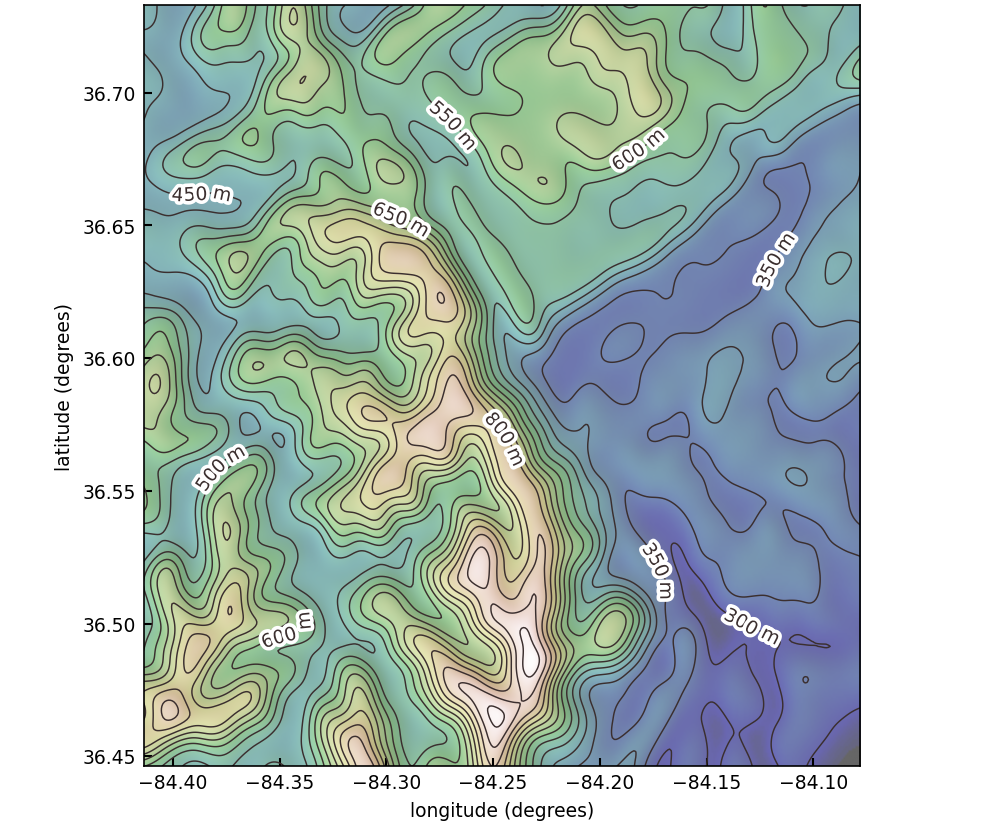
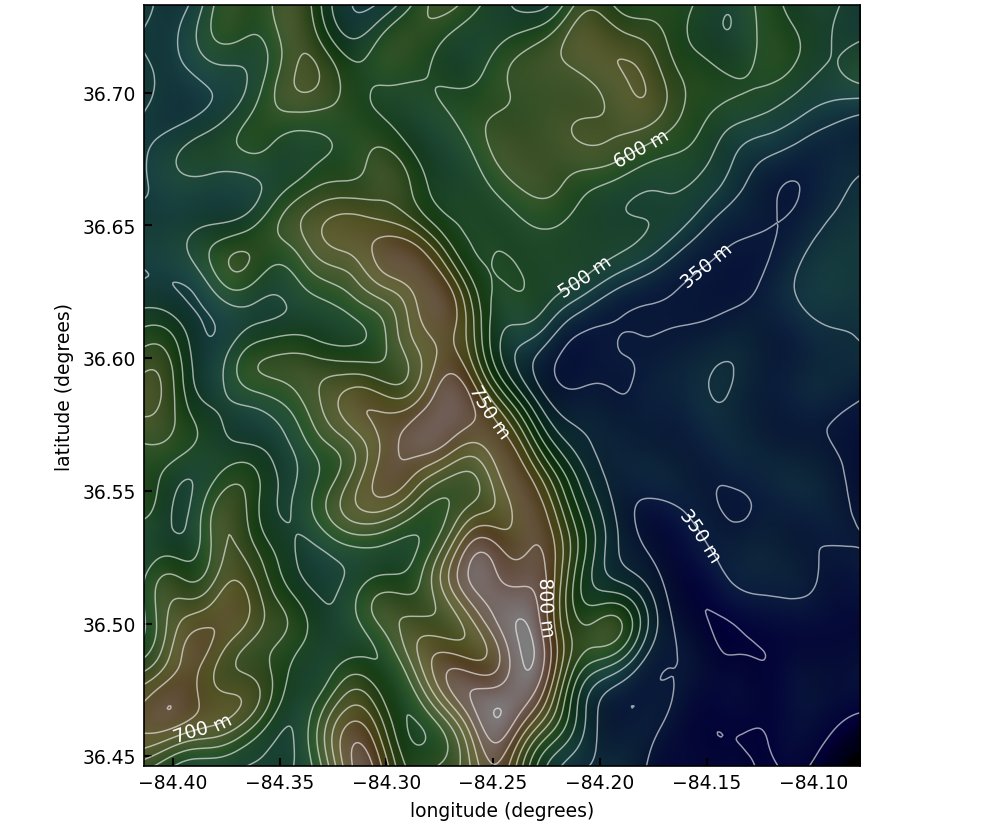
Use white labels on a darkened, smoother map and place each on its straightest stretch

diff --git a/examples/example_20_topographic_map.py b/examples/example_20_topographic_map.py
@@ -2,20 +2,22 @@
 
 Elevation from matplotlib's ``jacksboro_fault_dem.npz`` sample data, a digital
 elevation model near the Jacksboro fault in Tennessee, smoothed by a Gaussian
-about six cells wide so the contours are smooth enough to label, and shaded by
-a light from the northwest. Contours run every 50 m. ``ax.contour`` sets the
-direction of each contour path, and many run from right to left on screen, so
-every label is passed ``upright=True``. Each label sits where its contour has
-the most room, a contour with no stretch straight and open enough for a label
-has none, and a label too close to one already placed is left out. Each label
-has a thin white halo, not a casing, so its contour runs into it from both
-sides.
+about ten cells wide so the contours are smooth enough to label, and shaded by
+a light from the northwest and darkened. Contours run every 50 m.
+``ax.contour`` sets the direction of each contour path, and many run from right
+to left on screen, so every label is passed ``upright=True``.
+
+Each label sits on the straightest stretch of its contour that is clear of the
+other contours and over shading dark enough for white text. A contour with no
+such stretch has no label, and a label too close to one already placed is left
+out. The map is dark and the labels are white, with no casing or halo, so each
+label sits on its own contour line, which runs through the text. White text has
+a contrast of at least 4.5:1 against the shading under it.
 """
 from __future__ import annotations
 
 import os
 
-import matplotlib.patheffects as patheffects
 import matplotlib.pyplot as plt
 import numpy as np
 from matplotlib.colors import LightSource
@@ -24,31 +26,33 @@ from curved_text import curved_text
 from _style import data_axes, figure, sample_data, save
 
 # The standard deviation, in cells, of the Gaussian that smooths the terrain.
-SMOOTHING_CELLS = 6
+SMOOTHING_CELLS = 10
 CONTOUR_INTERVAL_M = 50
 # The shortest contour, in points, that is labeled: shorter ones are closed
 # loops around a summit or a pit, or fragments at the edge.
 MIN_POINTS = 250
 # Where along a contour a label may sit, as fractions of its length.
-CANDIDATE_POS = np.linspace(0.15, 0.85, 29)
-# The least distance, in degrees, from a label to the nearest other contour: a
-# little more than half the height of its casing, so the casing covers no
-# neighboring contour.
-MIN_ROOM = 0.0025
+CANDIDATE_POS = np.linspace(0.15, 0.85, 71)
+# The least distance, in degrees, from a label to the nearest other contour, so
+# a neighboring line does not run through the text.
+MIN_ROOM = 0.0015
 # The least distance, in degrees, between two labels.
-MIN_LABEL_SEPARATION = 0.045
-# A label is about this long, in degrees, and a contour that turns by more than
-# MAX_TURN_DEGREES in total across that length, measured at TURN_SAMPLES points,
-# is too curved for its label.
-LABEL_LENGTH = 0.025
-MAX_TURN_DEGREES = 30.0
-TURN_SAMPLES = 8
-# How far the hillshading is lightened toward white, so the contours stand out.
-SHADE_LIGHTENING = 0.4
-INK = "#3b2f2f"   # near-black brown, 12.9:1 against white
-# A thin white outline on each glyph, so the contour runs into the label from
-# both sides and the reader sees which line it names.
-HALO = [patheffects.withStroke(linewidth=3.5, foreground="white")]
+MIN_LABEL_SEPARATION = 0.04
+# A label is about 0.022 degrees long. The stretch of contour that must be
+# straight is longer, so a bend just past the label's end does not crush its
+# last letter. A contour that turns by more than MAX_TURN_DEGREES in total
+# across that stretch, measured at TURN_SAMPLES points, is too curved for its
+# label.
+LABEL_LENGTH = 0.032
+MAX_TURN_DEGREES = 22.0
+TURN_SAMPLES = 10
+# The factor that darkens the hillshading, so white labels can be read on it.
+SHADE_DARKENING = 0.5
+# The labels and the contour lines are white. White text is at least 4.5:1
+# against a background whose relative luminance is at most this value, the
+# WCAG 2 minimum for text, so a label is placed only where the shading under it
+# is that dark.
+MAX_BACKGROUND_LUMINANCE = 0.18
 
 
 def _gaussian_blur(grid, sigma):
@@ -74,6 +78,13 @@ def _point_at(path, pos):
                      for i in range(2)])
 
 
+def _luminance(rgb):
+    """The WCAG 2 relative luminance of each color in the (n, 3) array
+    ``rgb``."""
+    linear = np.where(rgb <= 0.04045, rgb / 12.92, ((rgb + 0.055) / 1.055) ** 2.4)
+    return linear @ np.array([0.2126, 0.7152, 0.0722])
+
+
 def _turn_degrees(path, pos):
     """The total turning of ``path``, in degrees, along a label's length
     centered at ``pos``, summed over short steps so a hairpin inside the
@@ -87,20 +98,24 @@ def _turn_degrees(path, pos):
     return float(np.abs(np.degrees(turns)).sum())
 
 
-def _roomiest_pos(path, others):
-    """The candidate ``pos`` at which ``path`` is farthest from every other
-    contour, among those where it is straight enough for a label and clear of
-    its neighbors, and that distance. Where contours crowd, as on a steep slope,
-    a label would cover them. ``None`` where no candidate qualifies."""
-    best = (None, -1.0)
+def _straightest_pos(path, others, dark_enough):
+    """The candidate ``pos`` at which ``path`` is straightest, among those where
+    it is straight enough for a label, clear of its neighbors, and over shading
+    dark enough for white text, and the distance from there to the nearest other
+    contour. The label then lies on the flattest stretch the contour offers,
+    where text follows it with the least bend. ``None`` where no candidate
+    qualifies."""
+    best = (None, None, np.inf)
     for pos in CANDIDATE_POS:
-        if _turn_degrees(path, pos) > MAX_TURN_DEGREES:
+        turn = _turn_degrees(path, pos)
+        if turn > MAX_TURN_DEGREES or turn >= best[2]:
             continue
-        point = _point_at(path, pos)
-        room = float(np.min(np.hypot(*(others - point).T)))
-        if room > best[1] and room >= MIN_ROOM:
-            best = (float(pos), room)
-    return best
+        if not dark_enough(path, pos):
+            continue
+        room = float(np.min(np.hypot(*(others - _point_at(path, pos)).T)))
+        if room >= MIN_ROOM:
+            best = (float(pos), room, turn)
+    return best[:2]
 
 
 def make(images_dir):
@@ -129,7 +144,22 @@ def make(images_dir):
     shade = LightSource(azdeg=315, altdeg=40).shade(
         smoothed, cmap=plt.cm.gist_earth, blend_mode="soft", vert_exag=2.0,
         dx=cell_m[0], dy=cell_m[1], fraction=0.9)
-    shade[..., :3] = (1 - SHADE_LIGHTENING) * shade[..., :3] + SHADE_LIGHTENING
+    shade[..., :3] *= SHADE_DARKENING
+    luminance = _luminance(shade[..., :3].reshape(-1, 3)).reshape(
+        shade.shape[:2])
+
+    def dark_enough(path, pos):
+        """Whether the shading under a label centered at ``pos`` on ``path``
+        is dark enough everywhere along the label for white text."""
+        length = np.hypot(*np.diff(path, axis=0).T).sum()
+        half = LABEL_LENGTH / 2 / length
+        points = np.array([_point_at(path, f) for f in
+                           np.linspace(pos - half, pos + half, TURN_SAMPLES)])
+        columns = np.round((points[:, 0] - west) / (east - west)
+                           * (luminance.shape[1] - 1)).astype(int)
+        rows = np.round((points[:, 1] - south) / (north - south)
+                        * (luminance.shape[0] - 1)).astype(int)
+        return bool(luminance[rows, columns].max() <= MAX_BACKGROUND_LUMINANCE)
 
     fig = figure(17, 14, font_size=9)
     ax = data_axes(fig.subplots())
@@ -138,7 +168,7 @@ def make(images_dir):
     levels = np.arange(CONTOUR_INTERVAL_M * np.ceil(smoothed.min() / 50),
                        smoothed.max(), CONTOUR_INTERVAL_M)
     contours = ax.contour(longitude, latitude, smoothed, levels=levels,
-                          colors=INK, linewidths=0.7)
+                          colors="white", linewidths=0.7, alpha=0.6)
 
     paths = [(level, seg) for level, segs in zip(contours.levels,
                                                  contours.allsegs)
@@ -146,7 +176,7 @@ def make(images_dir):
     candidates = []
     for index, (level, seg) in enumerate(paths):
         others = np.vstack([s for i, (_, s) in enumerate(paths) if i != index])
-        pos, room = _roomiest_pos(seg, others)
+        pos, room = _straightest_pos(seg, others, dark_enough)
         if pos is not None:
             candidates.append((room, level, seg, pos))
     placed = []
@@ -157,7 +187,7 @@ def make(images_dir):
             continue
         placed.append(point)
         curved_text(ax, seg[:, 0], seg[:, 1], f"{level:.0f} m", pos=pos,
-                    upright=True, fontsize=9, color=INK, path_effects=HALO)
+                    upright=True, fontsize=9, color="white")
     ax.set_xlabel("longitude (degrees)")
     ax.set_ylabel("latitude (degrees)")
 

diff --git a/tests/test_examples.py b/tests/test_examples.py
@@ -85,7 +85,7 @@ def test_contour_figures_label_every_contour_upright(name, tmp_path,
                                                      monkeypatch):
     # ``ax.contour`` sets the direction of each path, and the labels of these
     # figures follow the paths as they come, which run either way on screen
-    # (5 of the 10 map labels read upright without ``upright=True``).
+    # (5 of the 7 map labels read upright without ``upright=True``).
     module = _load_example(name)
     labels = []
     real = module.curved_text

diff --git a/examples/README.md b/examples/README.md
@@ -15,19 +15,21 @@ The figure shows real terrain: elevation from matplotlib's
 `jacksboro_fault_dem.npz` sample data, a digital elevation model (a grid of
 ground heights) near the Jacksboro fault in Tennessee, with contours every 50 m.
 A contour label is the classic label along a curve, and it needs the curve to
-be smooth. The script therefore smooths the terrain with a Gaussian filter six
+be smooth. The script therefore smooths the terrain with a Gaussian filter ten
 cells wide before it contours it. Each contour is a path whose direction
-`ax.contour` chooses, and 5 of the 10 labels here sit on paths that run from
+`ax.contour` chooses, and 5 of the 7 labels here sit on paths that run from
 right to left on screen, so the script passes `upright=True` and every label
-reads left to right. It places each label where its contour is straight enough
-for the text and farthest from the other contours. It skips a contour with
-no stretch that is both straight and open enough for a label, and a label that
-would come too close to one already placed. Each label has a thin white halo, so its own
-contour runs into the label from both sides, and the reader sees which line it
-names. A `box` casing would hide the ends of that line and leave a blob that
-could name any neighbor.
+reads left to right. The map is dark, and the labels and contour lines are
+white. The script places each label on the straightest stretch of its contour that
+is clear of the other contours and over shading dark enough for white text to
+reach the 4.5:1 contrast of the Web Content Accessibility Guidelines (WCAG). It
+skips a contour with no such stretch, and a label that would come too close to
+one already placed, so every label lies on a stretch that bends little. Each label sits on its own contour
+line, which runs through the text, so the reader sees which line it names. A
+`box` casing would hide the ends of that line, and a halo drawn on each glyph
+would overlap its neighbors.
 
-![Shaded relief map of the terrain near the Jacksboro fault, with longitude from 84.41 to 84.08 degrees west and latitude from 36.45 to 36.73 degrees north. Contour lines every 50 meters wind across a ridge that runs from the upper left to the lower center. Ten contours carry a label with a thin white outline, each on its own contour line: 300, 350, 350, 450, 500, 550, 600, 600, 650, and 800 meters. Every label reads left to right.](https://raw.githubusercontent.com/thiebes/curved-text/main/examples/images/20_topographic_map.png)
+![Dark shaded relief map of the terrain near the Jacksboro fault, with longitude from 84.41 to 84.08 degrees west and latitude from 36.45 to 36.73 degrees north. Pale contour lines every 50 meters wind across a ridge that runs from the upper left to the lower center. Seven contours carry a white label placed on the contour line itself: 350, 350, 500, 600, 700, 750, and 800 meters. Every label reads left to right.](https://raw.githubusercontent.com/thiebes/curved-text/main/examples/images/20_topographic_map.png)
 
 [example_20_topographic_map.py](https://github.com/thiebes/curved-text/blob/main/examples/example_20_topographic_map.py)
 
